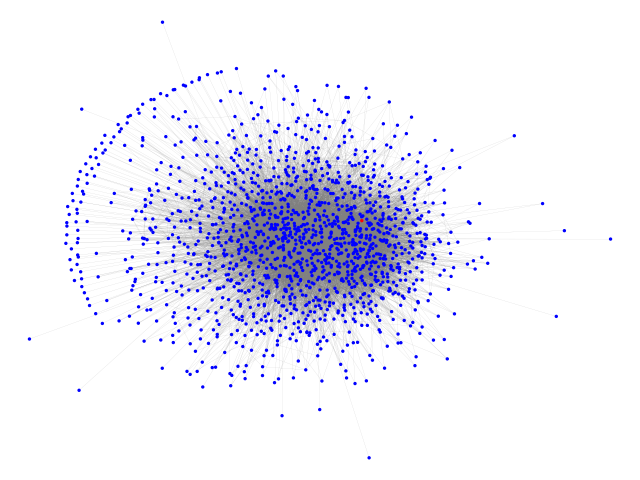
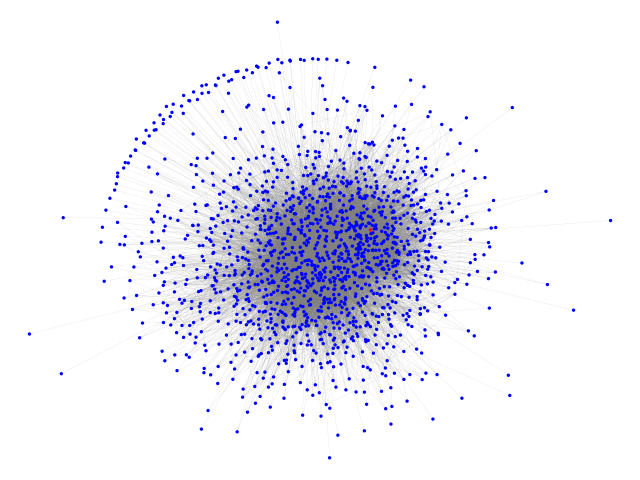
option to use scikit cluster of dbscan

diff --git a/graphAnalyzer.py b/graphAnalyzer.py
@@ -1,15 +1,18 @@
 import random
 import dbscan_tes
 import PageRank
+import re
 import networkx as nx
 import matplotlib.pyplot as plt
 from time import time
 import fa2
+from sklearn.cluster import KMeans
 import numpy as np
 
 
-def graphAnalyzer(graph):
-    """Argument: the path to find a .gml graph file
+def graphAnalyzer(graph, scikit_cluster=False):
+    """Argument: the path to find a .gml graph file, boolean : if yes using scikit-learn KMean to cluster otherwise
+    using our dbscan algorithm.
     Will page rank and cluster the nodes in order to return the highest page rank page in the three biggest clusters
     It also print a graph in order to visualize the clustering"""
     G = nx.read_gml(graph)
@@ -22,10 +25,10 @@ def graphAnalyzer(graph):
     pr = PageRank.PageRank(G)
     pr.constructDispersionMatrix(G)
     pr = pr.getPageRank()
-    print(len(set(pr)))
 
     # ----------------------------------- Clustering Computation --------------------------------------
 
+    # constructing network layout
     forceatlas2 = fa2.ForceAtlas2(
         # Behavior alternatives
         outboundAttractionDistribution=False,  # Dissuade hubs
@@ -50,26 +53,38 @@ def graphAnalyzer(graph):
                                                   pos=None,
                                                   iterations=300);
 
-    pos = {key: np.array([elt[0], elt[1]]) for key, elt in pos.items()}
+    if scikit_cluster:
+        # converting positions into a list of np.array
+        pos_list = [np.array([elt[0], elt[1]]) for key, elt in pos.items()]
 
-    pos_transf = dbscan_tes.transf(pos)  # changing position format to be able to use it in DBSCAN
+        # clustering the nodes according to the AffinityPropagation algorithm using scikit-learn
+        clustering = KMeans().fit(pos_list)
+        clustering = clustering.labels_
 
-    clusters = dbscan_tes.dbscan(pos_transf, 24, 16)
+        # filtering too small clusters
+        clusters = filteredCluster(clustering)
+
+    else:
+        pos = {key: np.array([elt[0], elt[1]]) for key, elt in pos.items()}
+        pos_transf = dbscan_tes.transf(pos)  # changing position format to be able to use it in DBSCAN
+        clusters = dbscan_tes.dbscan(pos_transf, 30, 20)  # clustering
 
     cluster_with_pr = associatingPageRankToNode(pr, clusters)
 
     # sorting each cluster according to page rank result
-    for key in cluster_with_pr.keys():
-        cluster_with_pr[key] = sorted(cluster_with_pr[key], key=lambda item: (item[1], item[0]))
+    for key, value in cluster_with_pr.items():
+        cluster_with_pr[key] = sorted(value, key=lambda item: (item[1], item[0]))
 
-    # list of 2-uples containing the highest page rank node from each cluster
-    highest_pr_per_cluster = [cluster_with_pr[key][0] for key in cluster_with_pr.keys()]
-
-    # sorting this list by page rank
-    highest_pr_per_cluster = sorted(highest_pr_per_cluster, key=lambda item: (item[1], item[0]))
-
-    for elt in highest_pr_per_cluster:
-        print(list(G.nodes())[elt[0]], " page rank : ", elt[1])
+    # rendering the suggested pages and their page rank
+    print("\nThe recommanded pages are the following :")
+    for key, value in cluster_with_pr.items():
+        try:
+            node_index = value[-1][0]  # retrieving the node index
+            title_node = re.search(r'titles=(\w*\s\w*|\w*)',
+                                   list(G.nodes())[node_index])  # getting the title of the Wikipedia page
+            print("•", title_node.group(1), "- with a page rank of ", value[-1][1])
+        except IndexError:
+            pass
 
     # ----------------------------------- Graph Creation --------------------------------------
 
@@ -84,13 +99,6 @@ def graphAnalyzer(graph):
 
     nx.draw(G.to_undirected(), pos, node_size=2, width=.05, edge_color='grey', node_color=node_color)
     plt.savefig("graph_with_layout.png")
-
-    plt.figure()
-
-    node_color = ['blue' for _ in range(len(G.nodes()))]
-    node_color[0] = 'red'
-    nx.draw(G.to_undirected(), node_color=node_color, node_size=2, width=.05, edge_color='grey')
-    plt.savefig("graph_without_layout.png")
 
 
 def removeIsolatedNodes(G):
@@ -114,7 +122,33 @@ def associatingPageRankToNode(pr, cluster):
     return cluster_with_pr
 
 
+def filteredCluster(clustering):
+    """function taking KMean labels
+    and returning  a dic of cluster with cluster number as key and list of node as value after removing all clusters
+    with less than 10 nodes (they are all gathered in cluster number 0)"""
+
+    # retrieving the index of nodes in each cluster and creating a dict where key is
+    # the cluster number and value a list of all the nodes in that cluster
+    clusters = {}
+    for index, elt in enumerate(list(clustering)):
+        try:
+            clusters[elt].append(index)
+        except KeyError:
+            clusters[elt] = [index]
+
+    # starting to filter too small clusters
+    filtered_cluster, k = {0: []}, 1
+    for key, elt in clusters.items():
+        if len(clusters[key]) > 10:
+            filtered_cluster[k] = elt
+            k += 1
+        else:
+            filtered_cluster[0].extend(elt)
+
+    return filtered_cluster
+
+
 if __name__ == "__main__":
     top = time()
-    graphAnalyzer("network_depth_2.gml")
+    graphAnalyzer("network_depth_2.gml", True)
     print(time() - top)
